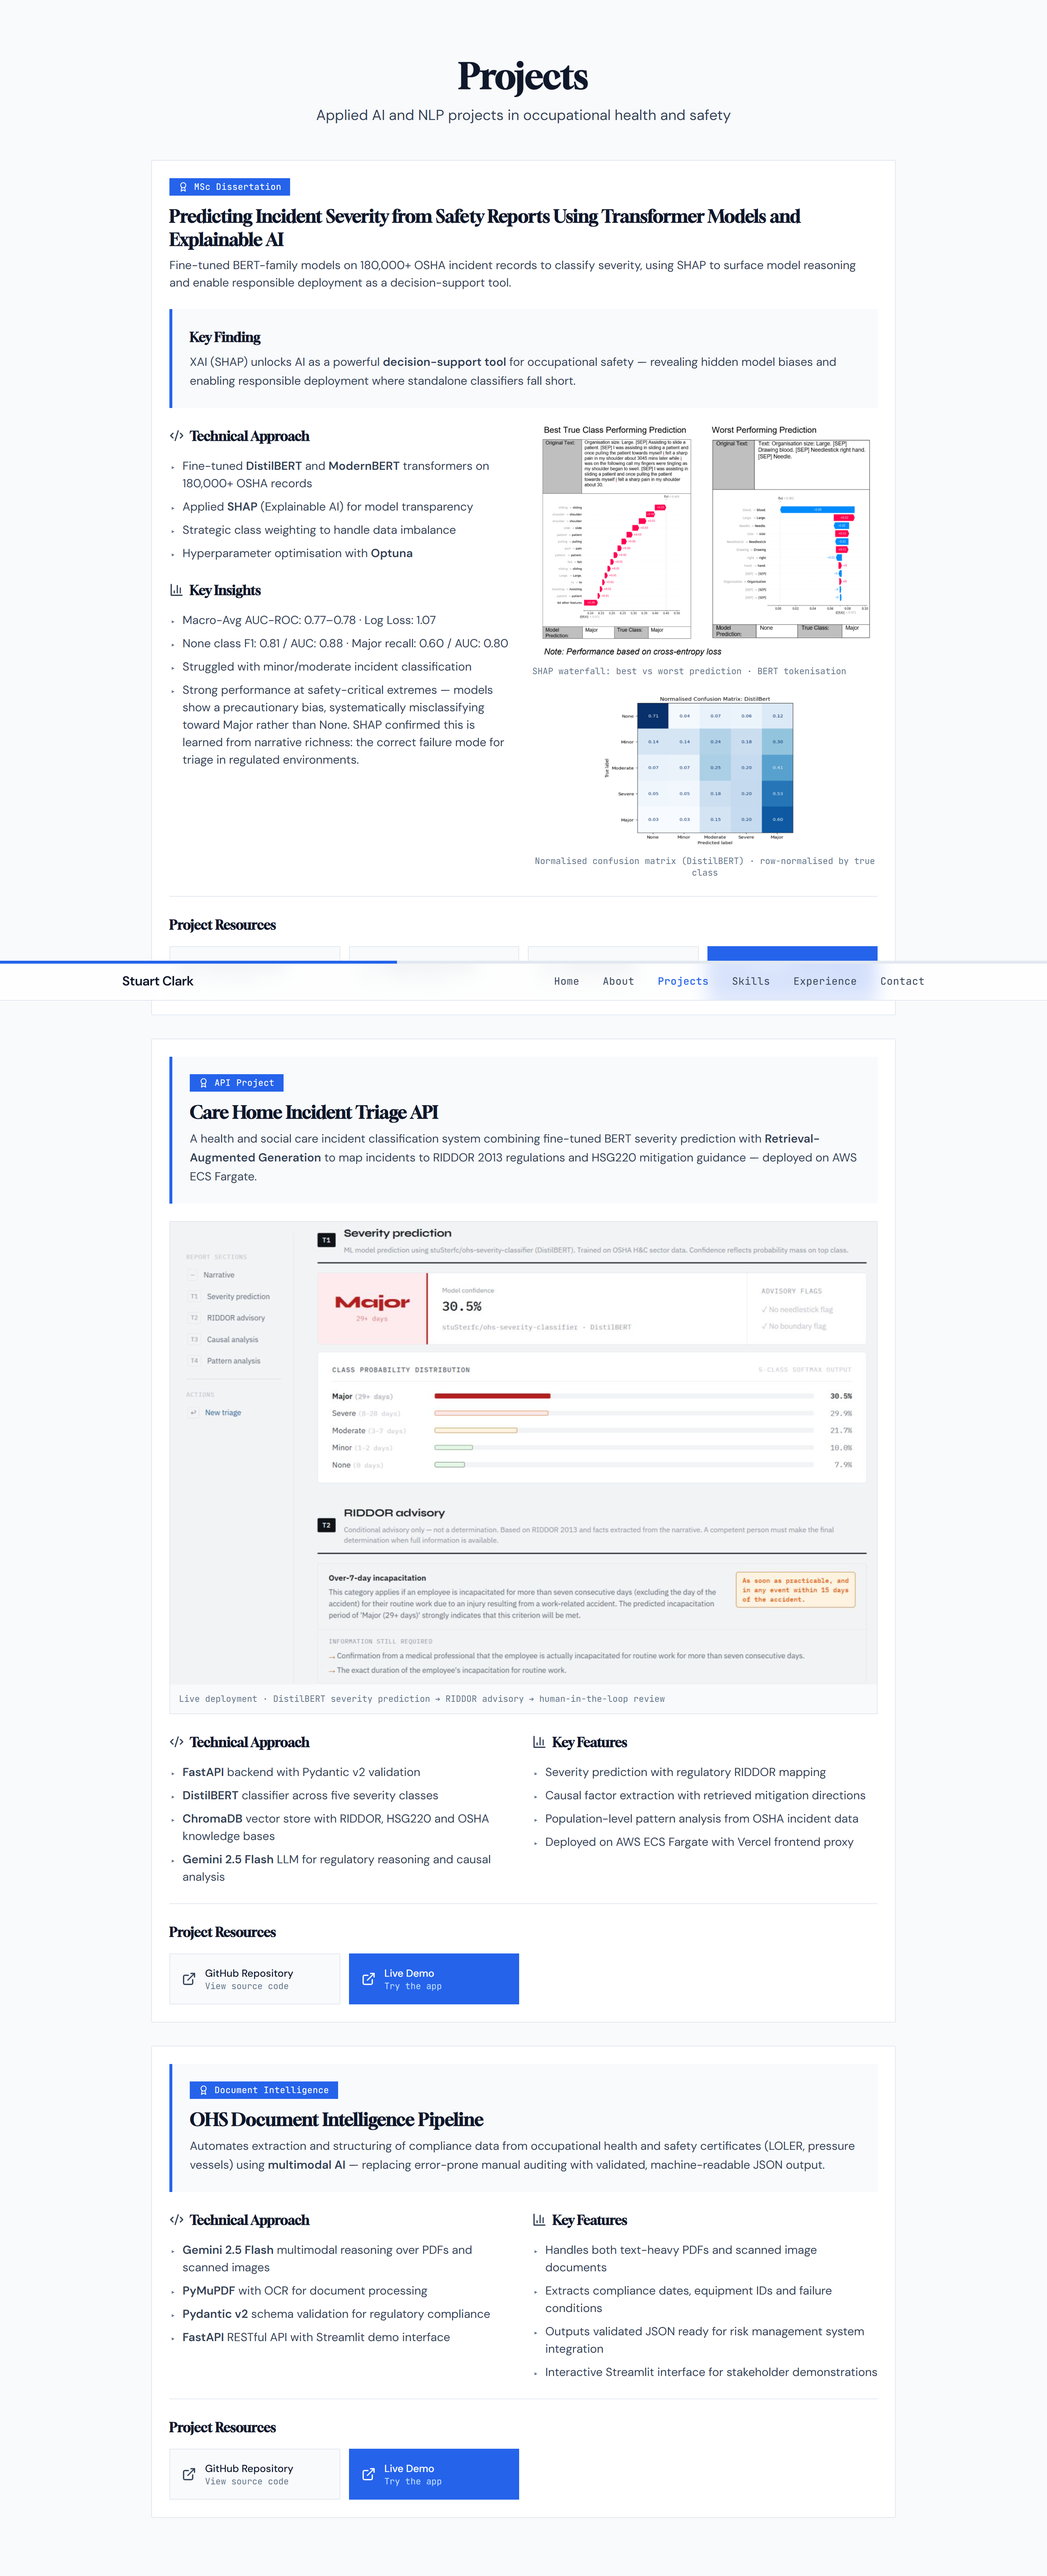
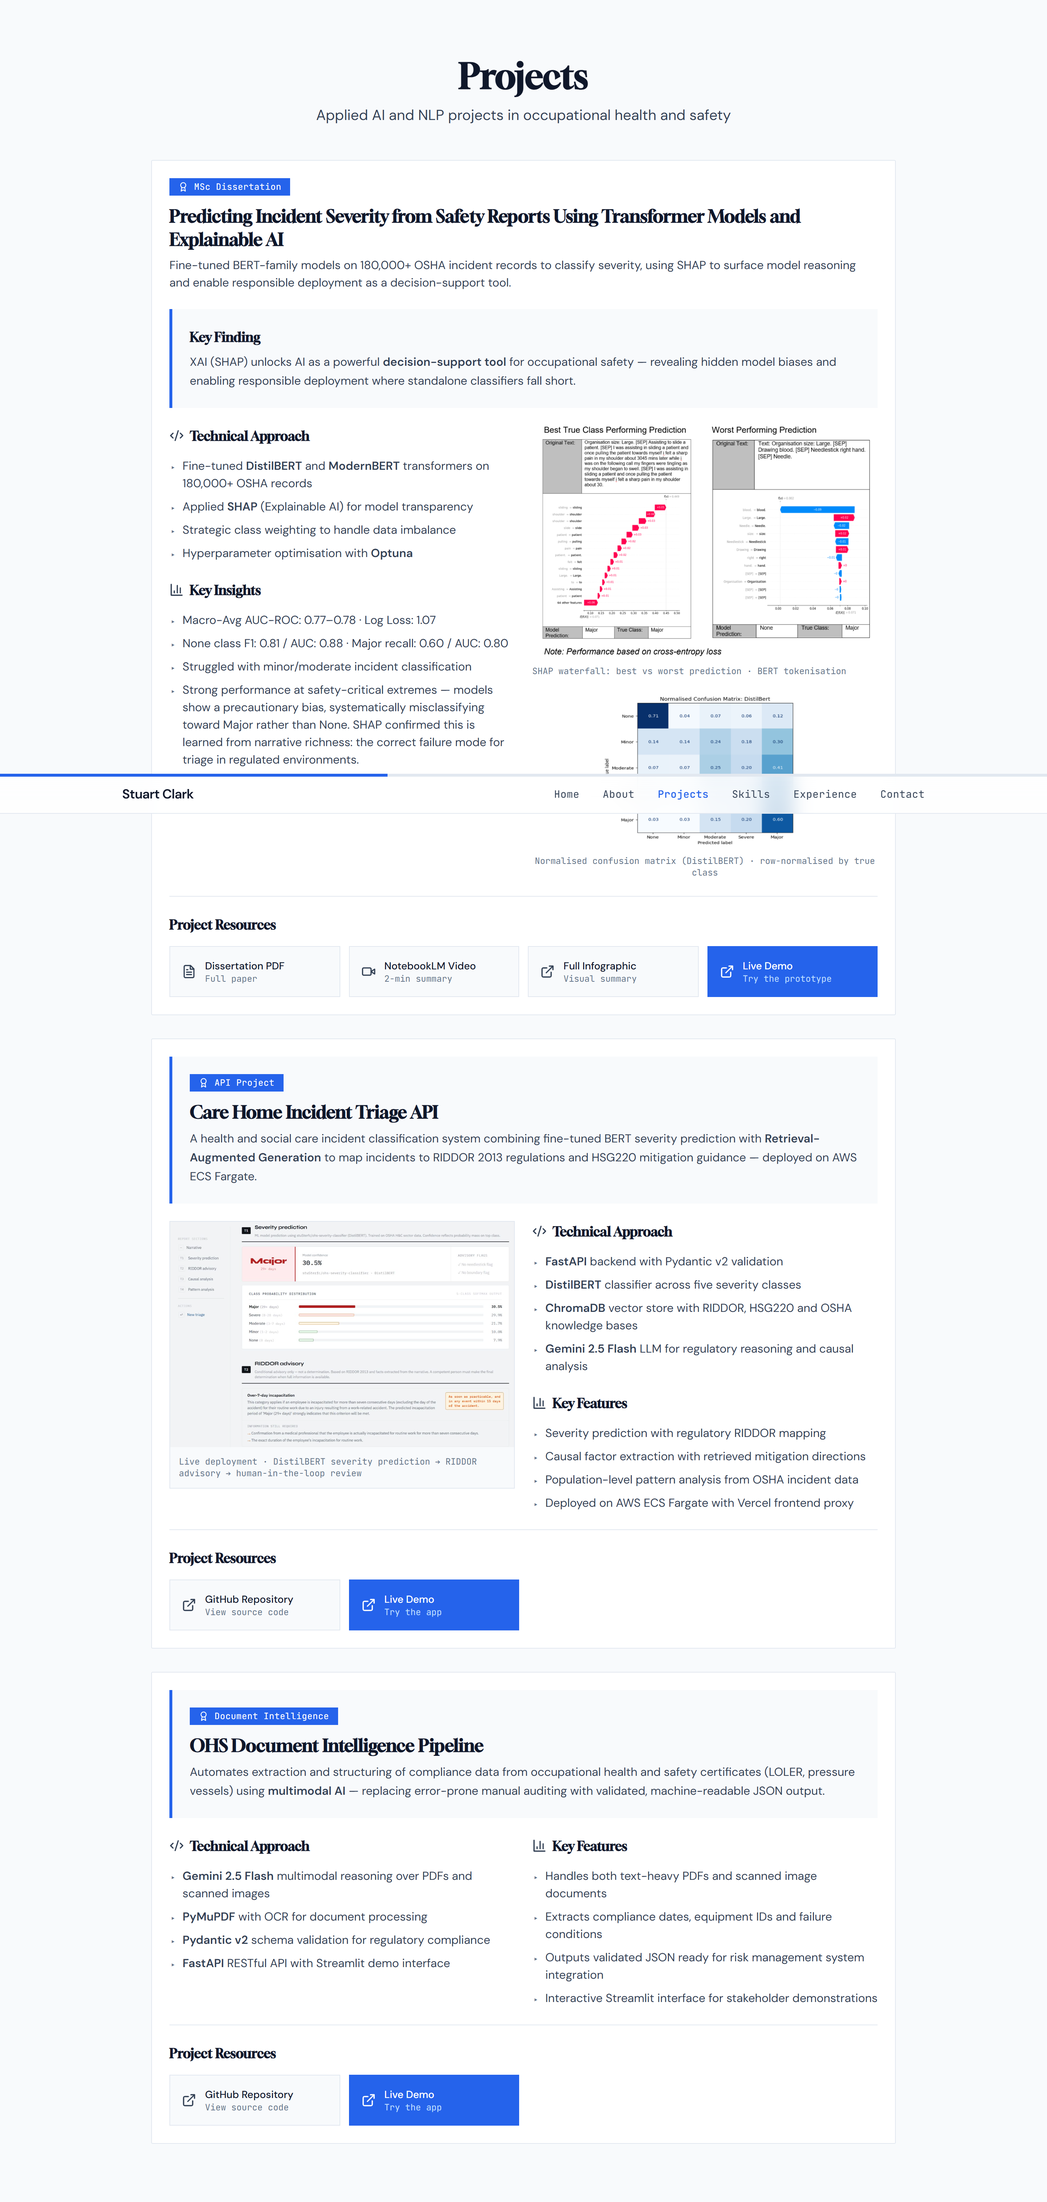
add screenshot artefacts

diff --git a/docs/design/screenshot-hero.js b/docs/design/screenshot-hero.js
@@ -1,0 +1,24 @@
+const puppeteer = require('puppeteer');
+const path = require('path');
+
+(async () => {
+  const browser = await puppeteer.launch({ headless: 'new', args: ['--no-sandbox'] });
+  const outDir = path.join(__dirname);
+  const shots = [
+    { name: 'hero-desktop.png', width: 1440, height: 900 },
+    { name: 'hero-mobile.png',  width: 390,  height: 844 },
+  ];
+  for (const { name, width, height } of shots) {
+    const page = await browser.newPage();
+    await page.setViewport({ width, height, deviceScaleFactor: 2 });
+    await page.goto('http://localhost:3000', { waitUntil: 'networkidle2', timeout: 30000 });
+    await new Promise(r => setTimeout(r, 1500));
+    const el = await page.$('#home');
+    if (el) {
+      await el.screenshot({ path: path.join(outDir, name) });
+    }
+    console.log('saved', name);
+    await page.close();
+  }
+  await browser.close();
+})();

diff --git a/DESIGN_BRIEF.md b/DESIGN_BRIEF.md
@@ -1,0 +1,170 @@
+# Portfolio Design Brief
+
+**Repo:** `stuart-clark-portfolio` (Vercel-hosted)
+**Live URL:** https://stuart-clark-portfolio.vercel.app/
+**Owner:** Stuart Clark
+**Last reviewed:** 2026-06-03
+
+---
+
+## How to use this brief
+
+You are Claude Code working in this repo. Read this file before making any changes.
+
+Work through the PRs in order. **One PR per section.** Do not bundle. Do not redesign anything not listed. After each PR, stop and let Stuart review the Vercel preview before continuing.
+
+If you are about to touch a file or change a pattern not explicitly named below, **stop and ask first**.
+
+---
+
+## Positioning (the why behind every change)
+
+Stuart is an ML Engineer targeting **remote roles in RegTech, risk-tech, insurtech, and AI governance** (CUBE Global, Quantexa, Napier AI, Corlytics, Suade Labs).
+
+His differentiator is **production ML + 14 years of regulated-domain expertise** — not a career-pivot story. Every change should move the site away from "personal journey" framing and toward "technical authority for regulated environments."
+
+The Projects section copy is already strong (specific metrics, real tech, defensible failure analysis). Do not rewrite it. Build the rest of the site to match that register.
+
+---
+
+## PR 1 — Typos and friction (30 min)
+
+**Scope:** Three text fixes. Nothing else.
+
+- Nav: `Project` → `Projects` (singular → plural)
+- Experience section: `local goverment` → `local government`
+- Experience section: `enforecement` → `enforcement`
+- Projects section: remove the line `"Note: Project materials will be made available upon request"`. If a dissertation PDF exists in the repo, link it directly from the "Dissertation PDF" tile. If not, leave the tile pointing to a `mailto:` or remove the tile.
+
+**Acceptance:** `grep -ri "goverment\|enforecement"` returns nothing. Nav reads "Projects." Friction wall gone.
+
+**Do not:** touch styling, copy, or component structure elsewhere.
+
+---
+
+## PR 2 — Hero CTAs (30 min)
+
+**Scope:** Replace the two hero buttons. Keep all other hero content for now.
+
+- Primary button (currently "Connect on LinkedIn") → **`View Live Demo`** linking to the deployed AWS triage API
+- Secondary button (currently "View Projects") → **`Read the Dissertation`** linking to the dissertation PDF (or `#projects` if PDF not yet linked)
+- Move the LinkedIn link to the footer/contact section. It should not be the primary hero CTA.
+
+**Acceptance:** Hero CTAs reflect technical work, not networking. LinkedIn still discoverable but not above the fold.
+
+**Do not:** redesign button styles, change hero copy, change the headshot, or touch the rest of the page.
+
+---
+
+## PR 3 — Fix the animation-gating bug (1–2 hrs)
+
+**Scope:** The most important change on this list. Scroll-triggered reveals currently set `opacity: 0` until an IntersectionObserver fires. This means LinkedIn link previews, recruiter screenshots, email/Slack unfurls, and SEO crawlers all see a blank page below the hero.
+
+**Fix:** Change the reveal pattern from opacity-based to transform-only.
+
+- Find the IntersectionObserver / fade-in classes (likely a `motion.div`, `useInView`, or a Tailwind `opacity-0 → opacity-100` pattern).
+- Replace with: `transform: translateY(12px); opacity: 1` initial → `transform: translateY(0)` on intersection.
+- Content must be **fully visible in the DOM and rendered** at all times. Only the *motion* is conditional.
+
+**Acceptance:**
+
+- View source / browser inspector with JS disabled: every section's text content is visible.
+- Take a screenshot at `https://link-preview-tester.com/` or paste the URL into a Slack DM to self — preview shows real content.
+- Animations still feel smooth on actual scroll.
+
+**Do not:** add or remove sections, restyle anything, change copy.
+
+---
+
+## PR 4 — Proof strip under hero (1 hr)
+
+**Scope:** Add a single horizontal strip immediately below the hero CTAs, before "About Me."
+
+Content (use exactly these numbers — they're from the dissertation):
+
+```
+Live on AWS ECS  ·  180,000 OSHA records  ·  Macro-AUC 0.78  ·  F1 0.81  ·  Open source
+```
+
+**Style:** Small monospaced text, generous letter-spacing, separator dots, single horizontal line. No icons, no chips, no colour. Quiet authority.
+
+**Acceptance:** A recruiter scrolling at speed gets a numeric snapshot of credibility within 2 seconds of the hero.
+
+**Do not:** add badges, gradient backgrounds, animated counters, or icons.
+
+---
+
+## PR 5 — Hero copy rewrite (1 hr)
+
+**Scope:** Replace H1, sub, and the "Open to Opportunities" pill copy. Headshot, layout, and component structure stay.
+
+Current:
+- H1: "From Safety Expert to AI Engineer"
+- Sub: "Bridging 18 years of occupational safety consulting with cutting-edge machine learning to solve real-world problems"
+
+New:
+- H1: **ML Engineer for regulated, high-stakes domains**
+- Sub: Production NLP and explainable AI, built for RegTech, risk, and compliance. Fourteen years inside the regulations the models have to satisfy.
+- Pill: keep `Open to Opportunities` but add specificity: `Open to Opportunities  ·  Remote  ·  UK-based`
+
+**Acceptance:** Hero leads with capability, not career narrative. A RegTech hiring manager scanning for three seconds gets: what he does, who it's for, why he's different.
+
+**Do not:** touch the headshot, the gradient background (we'll do palette in PR 6), or any other section.
+
+---
+
+## PR 6 — Palette and typography drift (2–3 hrs)
+
+**Scope:** Move the visual register from "personal brand / coaching site" toward "instrument-grade / scientific authority." Reference image: `empirical_quiet_plate_xvii.png` (ask Stuart for it; drag into chat).
+
+**Token changes** (do these in your design tokens file, e.g. `tailwind.config.ts` or CSS variables):
+
+| Token | Before (approx) | After |
+|---|---|---|
+| Page background | light blue gradient | warm off-white `#F3EEE2` |
+| Primary text | near-black | warm near-black `#181614` |
+| Secondary text | grey-blue | warm graphite `#605A50` |
+| Accent | bright blue | one of: iron-red `#AA342C` or oxidised blue `#2C4A66` — used **once per screen**, never decoratively |
+| Display font | current serif | `Gloock` or `Crimson Pro Bold` |
+| Body font | current sans | keep, or switch to `Instrument Sans` |
+| Label / metadata font | current | `Geist Mono` or `JetBrains Mono` |
+
+**Rules:**
+
+- The accent colour is used for **one element per screen**: a single CTA, a single threshold marker, a single emphasis. Not chip backgrounds.
+- Replace decorative coloured chips in the Skills section with monospaced text tags on a hairline border.
+- Remove the gradient on the hero. Use flat warm off-white.
+- Headshot stays circular but lose the blue glow / gradient ring if present.
+
+**Acceptance:** The site feels closer to a Bauhaus + scientific monograph than a coaching landing page. Compare side-by-side with the reference image — palette and tone should rhyme.
+
+**Do not:** redesign layouts, restructure sections, change copy, or add new components. This PR is tokens-only where possible.
+
+---
+
+## What is NOT in scope (do not do these without explicit go-ahead)
+
+- Buying or wiring up a custom domain
+- Migrating frameworks
+- Adding a blog, dark mode, language switcher, or contact form
+- Reworking the Projects section copy (it's already strong)
+- Adding analytics, tracking, or cookie banners
+- Anything involving `npm install` of new UI libraries
+
+---
+
+## Verification after every PR
+
+1. Run `npm run dev`, open at desktop (1440×900) and mobile (375×812) widths.
+2. Screenshot both. Drag screenshots into Claude Code and ask: *"Compare to DESIGN_BRIEF.md PR N acceptance criteria. What's still off?"*
+3. Push to the branch. Open the Vercel preview URL on a real device.
+4. Check that with JS disabled, content is still visible (PR 3 onward).
+5. Only then merge.
+
+---
+
+## Reference assets
+
+- Design philosophy: `empirical_quiet.md`
+- Visual reference plate: `empirical_quiet_plate_xvii.png`
+- Stuart's CV for content authority: `Stuart_Clark_CV.pdf` (in `Get Job/`)

diff --git a/EMPIRI~1.MD b/EMPIRI~1.MD
@@ -1,0 +1,19 @@
+# Empirical Quiet
+
+*A movement of restrained scientific precision*
+
+---
+
+## Philosophy
+
+Empirical Quiet is the aesthetic of the careful observer — of someone who has spent years watching, measuring, and recording with the patience of a lichenologist. It rejects the spectacle of contemporary digital design in favour of an older, slower visual language: the taxonomic plate, the calibrated instrument, the field notebook annotated in graphite. Every mark is the residue of attention. Every interval has been weighed. The work appears to have been produced not in a single sitting but across many quiet returns to the same composition, the way a master craftsman labours over a single sheet for weeks, refining what is already there rather than reaching for what is not.
+
+The philosophy begins with restraint. Where lesser work performs urgency through saturation and motion, Empirical Quiet performs authority through stillness. Negative space is not a vacancy to be filled but the substrate on which observation occurs — paper-coloured, breathing, generous. Compositions are anchored to a strict orthogonal grid yet animated by tiny calibrated deviations: a glyph nudged half a millimetre off-axis to acknowledge that real measurement is never perfectly clean. The eye learns to trust this surface because the surface has earned trust through painstaking attention to interval, weight, and edge.
+
+Colour is treated as a controlled variable. The palette stays close to the materials of the laboratory: bone, vellum, india ink, pencil graphite, and a single hard-fought accent — most often a quiet ferrous red or oxidised blue, deployed sparingly, the way a chemist might add a single drop of indicator to a flask. Hierarchy is set by tonal weight, not chromatic shouting. The discipline is absolute. When colour appears, it carries information; it never decorates.
+
+Typography is the language of the marginalia: thin, monospaced, almost handwritten in its evenness — labels, coordinates, annotations, catalogue numbers. Display type is rare and architectural when it appears, set in a serif of classical proportions, given an entire field of space to occupy alone. Words never explain what the composition has already shown; they anchor, they index, they cite. The reader who pays close attention is rewarded. The reader who glances receives only the impression of seriousness — which is also a kind of message.
+
+Pattern emerges through patient accumulation rather than declaration. Dotted distributions, hatched gradients, ruled axes, layered tick marks, and small repeating glyphs build meaning the way a scientific monograph builds it — through density, through the suggestion that every mark was placed deliberately, that someone counted. This is the central paradox of the movement: it uses the visual grammar of measurement to express things that resist measurement, treating intuition and judgment with the same reverence one would bring to documenting an observable phenomenon. The result is a meticulously crafted artefact, the product of deep expertise, that proves something ephemeral can still be studied, mapped, and held still long enough to be seen.
+
+Above all, Empirical Quiet demands master-level execution. Every alignment must be the result of countless refinements. Every glyph must sit on its baseline as if surveyed. The finished piece should appear as though it could have been pulled from the archive of a discipline that does not yet exist — a field guide to a phenomenon only its author understands fully, presented with such patient craftsmanship that the viewer accepts the discipline as real before knowing what it studies.
